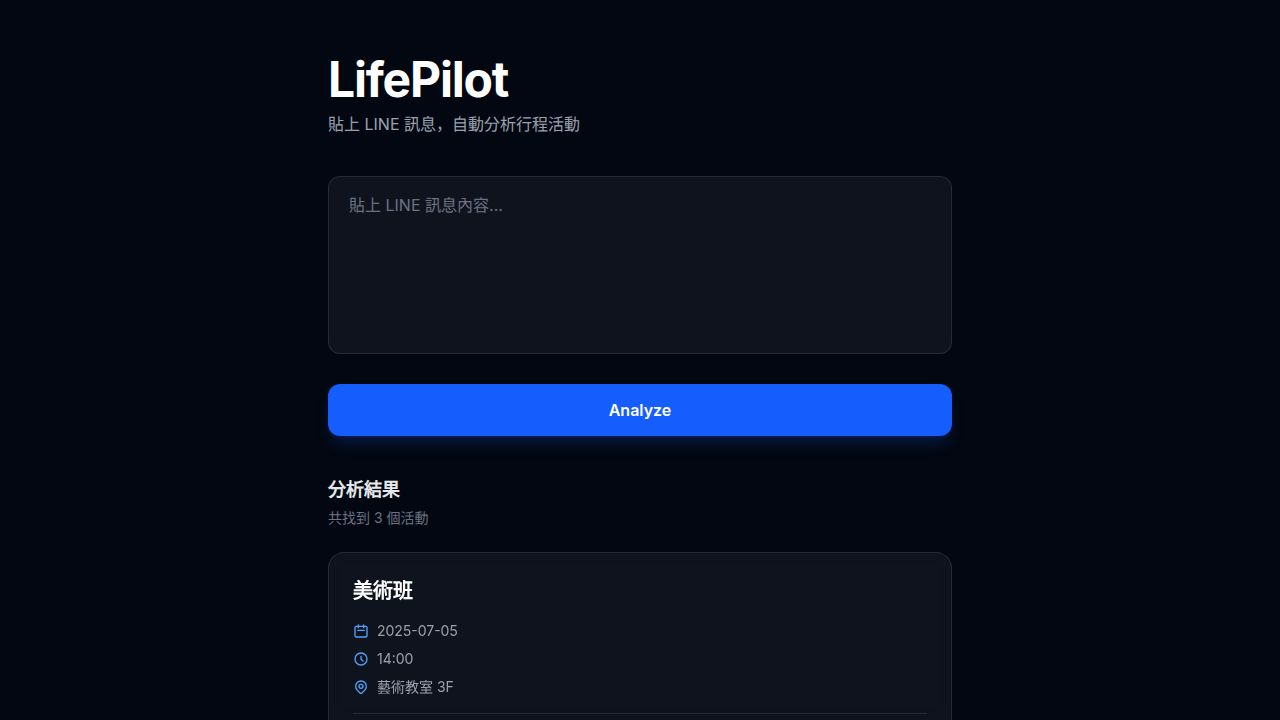
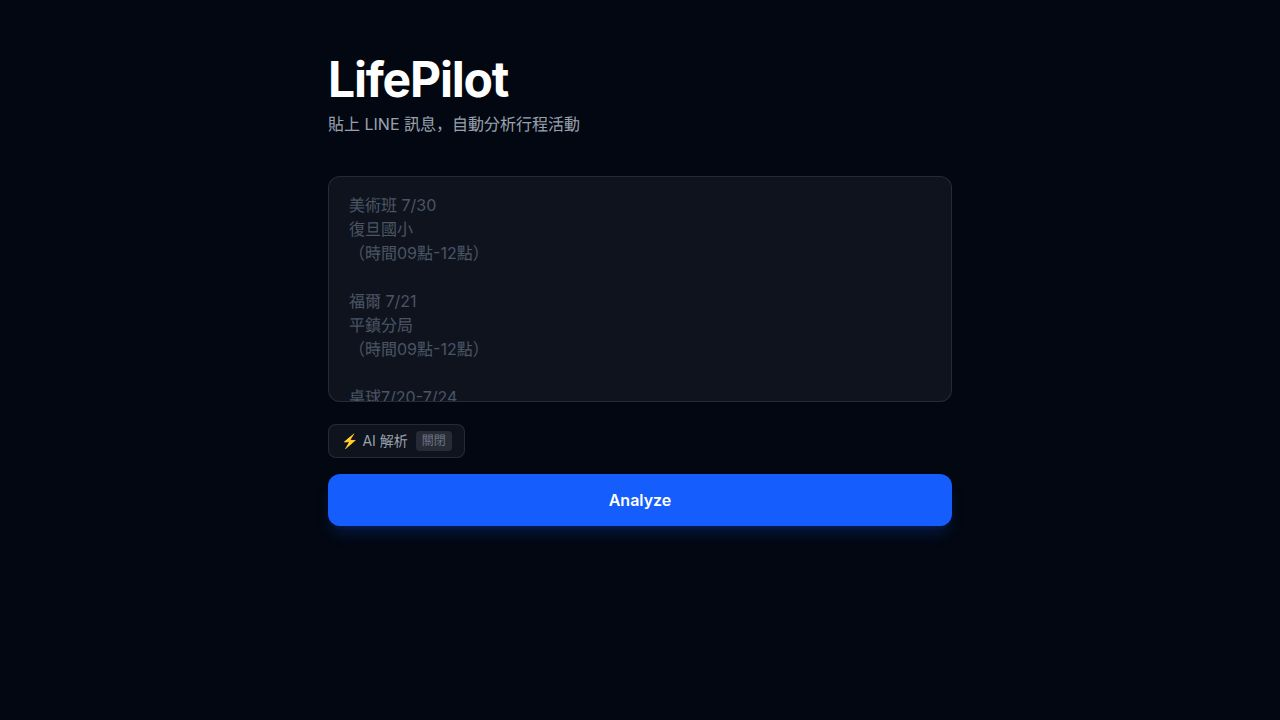
Update AI to use Groq for faster and more efficient analysis
Modify the API to use Groq's service by changing the API endpoint, model, and API key environment variable.

Replit-Commit-Author: Agent
Replit-Commit-Session-Id: ae7b3811-7dad-4ecd-95f7-960ffc069649
Replit-Commit-Checkpoint-Type: full_checkpoint
Replit-Commit-Event-Id: 4607c7ce-4279-4b25-98a4-3398e8af8e57
Replit-Commit-Screenshot-Url: https://storage.googleapis.com/screenshot-production-us-central1/91c0c59d-1274-4273-bf61-4ce12e05dd7e/ae7b3811-7dad-4ecd-95f7-960ffc069649/7hWM6Nv
Replit-Helium-Checkpoint-Created: true

diff --git a/artifacts/api-server/src/routes/parse.ts b/artifacts/api-server/src/routes/parse.ts
@@ -102,9 +102,9 @@ function validateAIResult(data: unknown): data is AIParseResult {
 const router: IRouter = Router();
 
 router.post("/parse", async (req: Request, res: Response) => {
-  const apiKey = process.env.OPENAI_API_KEY;
+  const apiKey = process.env.GROQ_API_KEY;
   if (!apiKey) {
-    res.status(503).json({ error: "OPENAI_API_KEY is not configured on the server" });
+    res.status(503).json({ error: "GROQ_API_KEY is not configured on the server" });
     return;
   }
 
@@ -128,14 +128,14 @@ router.post("/parse", async (req: Request, res: Response) => {
   const timeout = setTimeout(() => controller.abort(), 30_000);
 
   try {
-    const openaiRes = await fetch("https://api.openai.com/v1/chat/completions", {
+    const openaiRes = await fetch("https://api.groq.com/openai/v1/chat/completions", {
       method: "POST",
       headers: {
         "Content-Type": "application/json",
         Authorization: `Bearer ${apiKey}`,
       },
       body: JSON.stringify({
-        model: "gpt-4o-mini",
+        model: "llama-3.3-70b-versatile",
         response_format: { type: "json_object" },
         max_tokens: 2048,
         messages: [